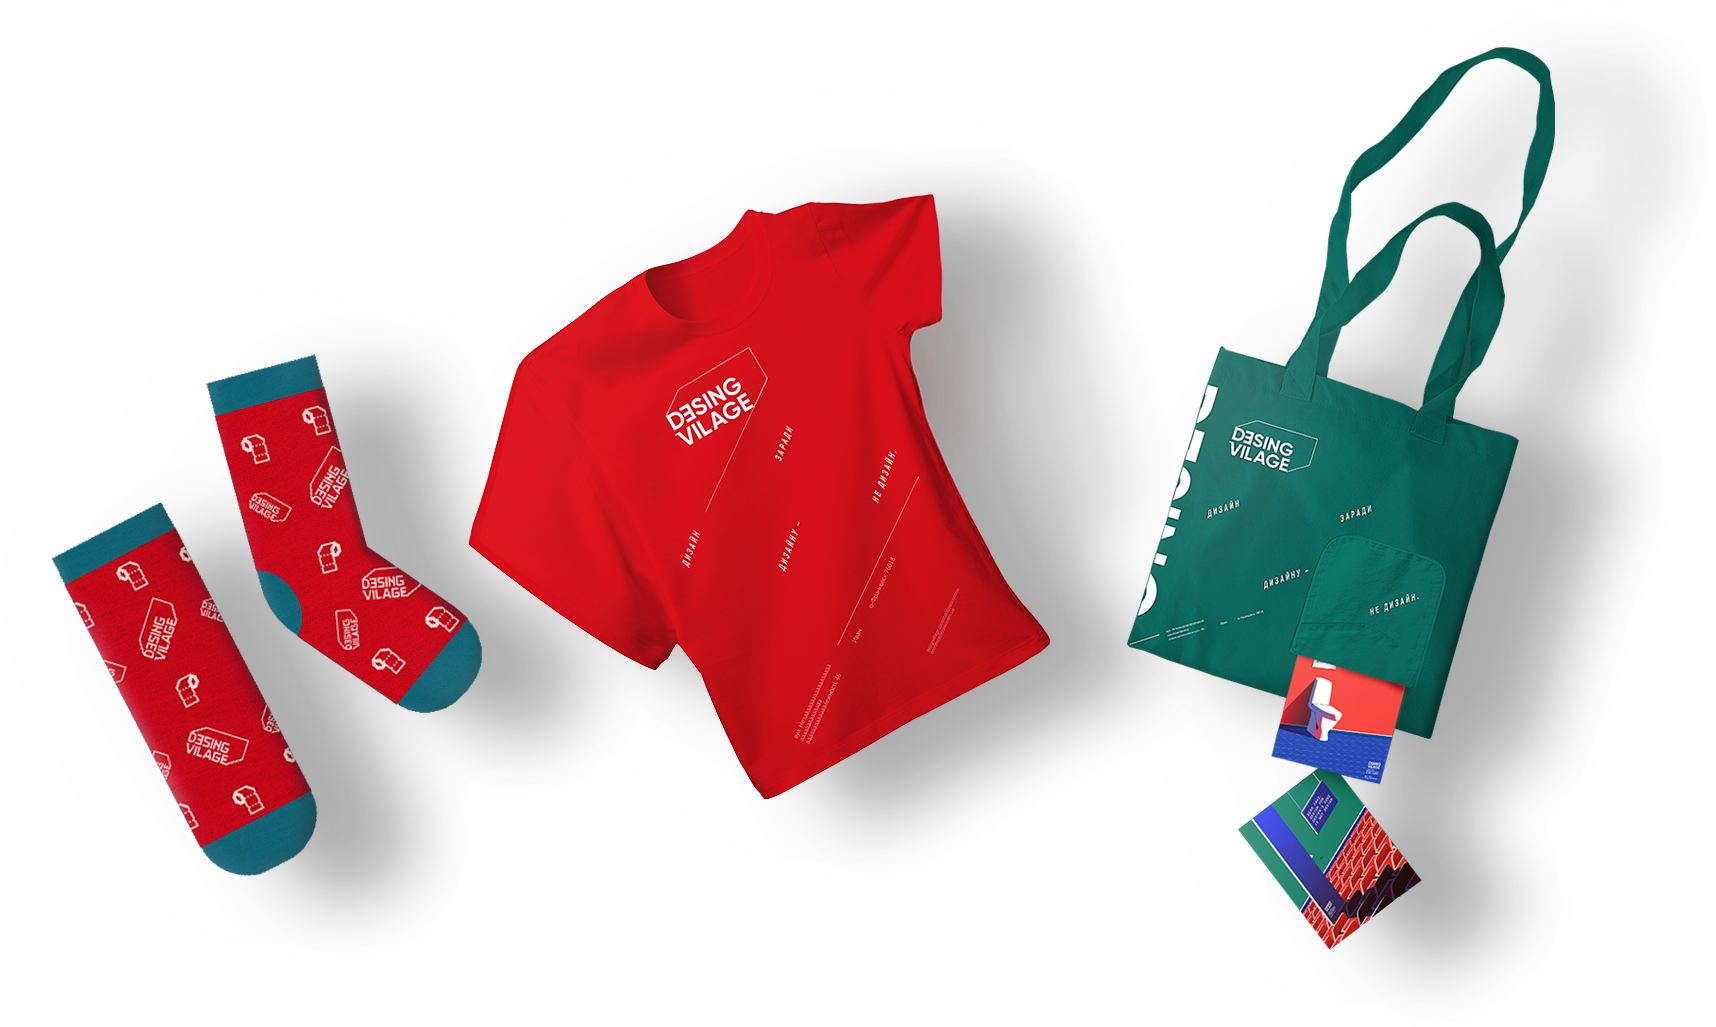
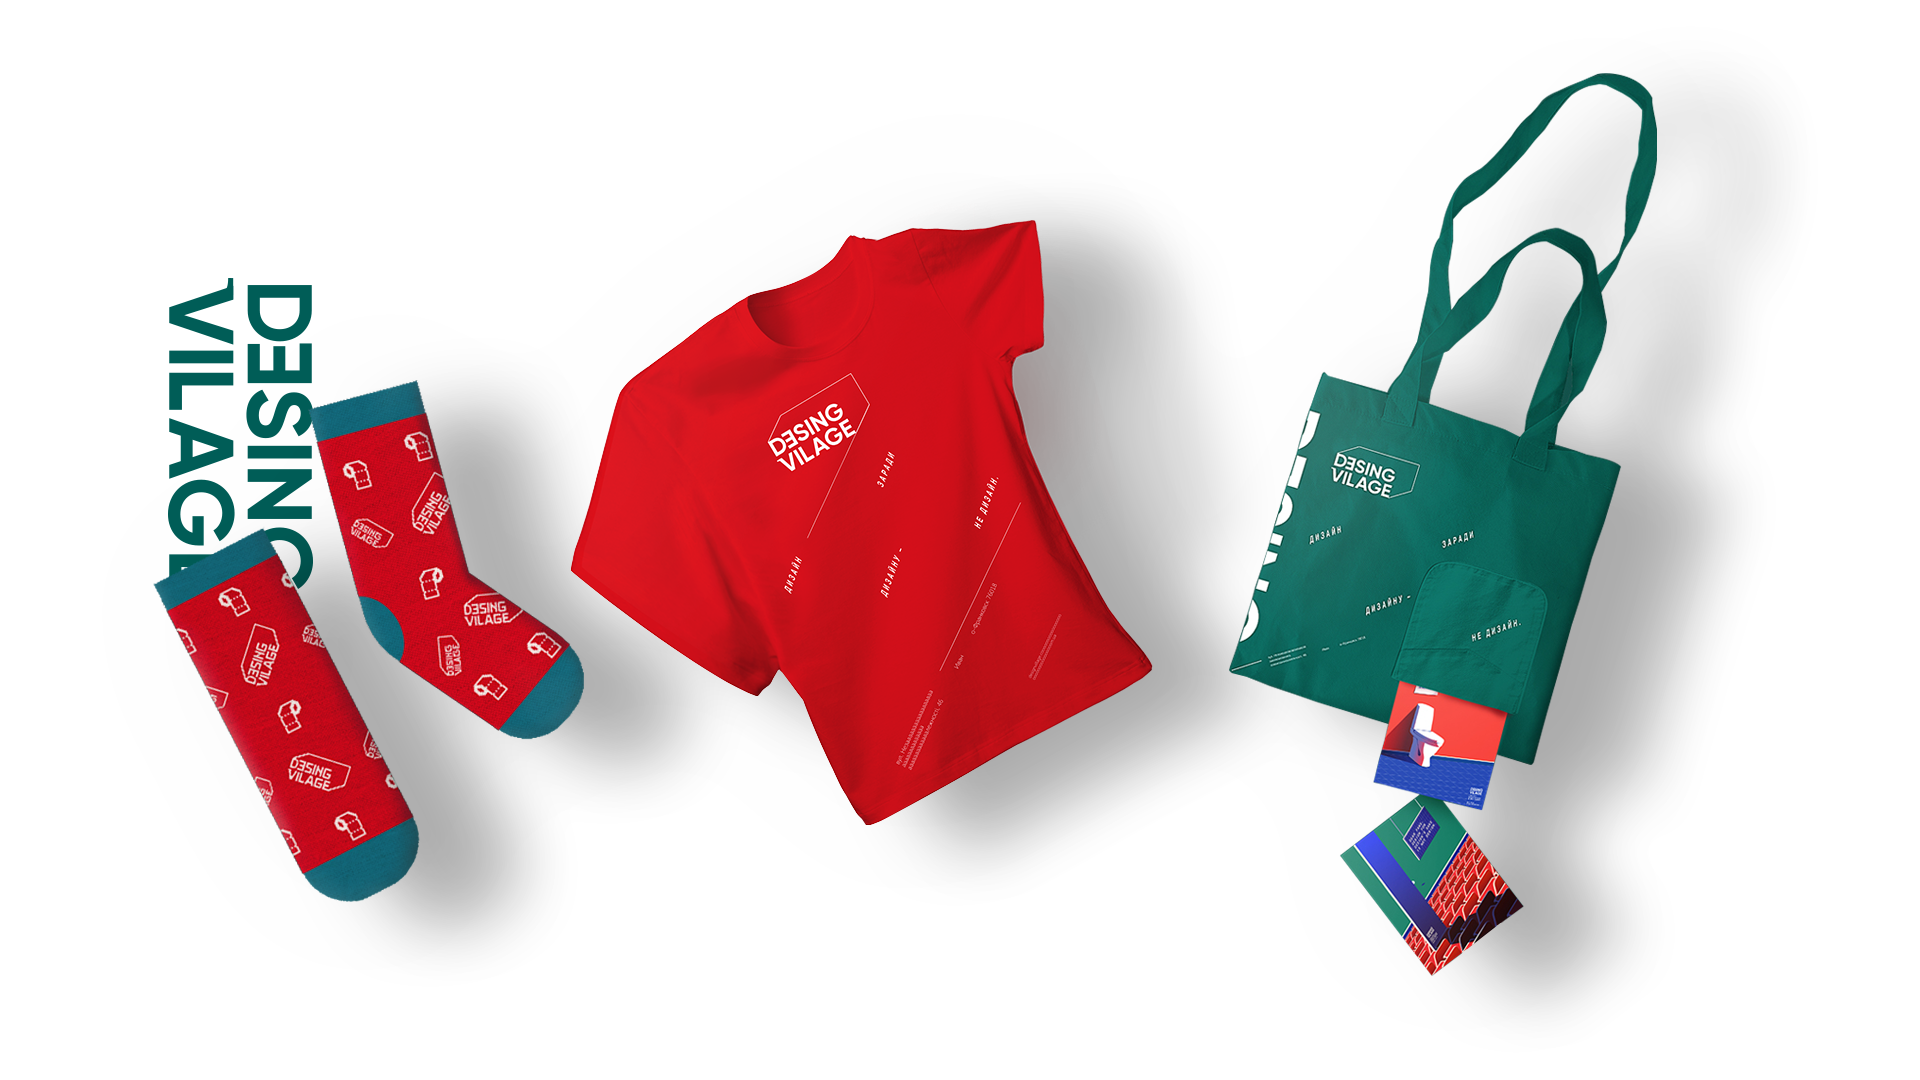
fix souvenier shop

diff --git a/stylesheets/all.css b/stylesheets/all.css
@@ -2061,10 +2061,25 @@ a:hover {
     padding: 0; }
 
 .products-section {
+  position: relative;
   text-align: center; }
   .products-section .section-heading .color {
     left: 0; }
+  .products-section .products-img {
+    position: relative; }
+  .products-section .products-bg {
+    position: absolute;
+    top: 50%;
+    -webkit-transform: translateY(-50%);
+            transform: translateY(-50%);
+    width: 100%;
+    height: 0;
+    background: #1f655d;
+    padding-top: 30%; }
   .products-section img {
+    position: relative;
+    width: 100%;
+    height: auto;
     margin-top: -100px;
     margin-bottom: -60px; }
   .products-section .buy-btn {
@@ -2253,7 +2268,10 @@ a:hover {
     padding: 20px 0; }
 
   .partners-heading {
-    padding: 65px 0; } }
+    padding: 65px 0; }
+
+  .products-section img {
+    margin-top: -90px; } }
 @media screen and (max-width: 1366px) {
   .line-two .grey-stripe {
     left: 500px; }
@@ -2338,7 +2356,10 @@ a:hover {
     padding: 60px 0 0; }
 
   .numbers h5 {
-    font-size: 14px; } }
+    font-size: 14px; }
+
+  .products-section img {
+    margin-top: -80px; } }
 @media screen and (max-width: 960px) {
   .one {
     top: 255px;
@@ -2424,7 +2445,7 @@ a:hover {
         float: inherit; }
 
   .products-section img {
-    margin-top: -50px;
+    margin-top: -40px;
     margin-bottom: -20px; }
 
   .contacts-info {
@@ -2474,7 +2495,7 @@ a:hover {
   .products-section .section-heading {
     padding: 30px 0 0; }
   .products-section img {
-    margin-top: 0;
+    margin-top: -10px;
     margin-bottom: 0; }
   .products-section .buy-btn {
     margin-bottom: 20px; } }
@@ -2863,9 +2884,6 @@ a:hover {
 
   .products-section .section-heading {
     padding: 30px 0 0; }
-  .products-section img {
-    margin-top: 0;
-    margin-bottom: 0; }
   .products-section .buy-btn {
     padding: 10px 20px; }
 

diff --git a/index.html b/index.html
@@ -716,7 +716,13 @@ EN
 </div>
 </div><div class='half-width inline-block'>
 <div class='event'>
-<h6 class='red'>Buero Bauer</h6>
+<h6 class='red'>
+Buero Bauer
+<span class='red tooltip'>
+EN
+<span class='tooltiptext'>лекція англійською</span>
+</span>
+</h6>
 <p>Форма слідує за ставленням</p>
 </div>
 </div></div>
@@ -1280,10 +1286,13 @@ Marco Coppeto
 <div class='section-heading'>
 <div class='heading-box'>
 <div class='color red-bg'></div>
-<h3 class='visible-heading'>Сувенірна лавка</h3>
+<h3>Сувенірна лавка</h3>
 </div>
 </div>
-<img alt='Products items' src='images/products-bg.png'>
+<div class='products-img'>
+<div class='products-bg'></div>
+<img alt='Products items' src='images/products-items.png'>
+</div>
 <a class='buy-btn' href='product.html'>Покажіть все!</a>
 </div>
 <div class='contacts-section' id='contacts'>

diff --git a/en/index.html b/en/index.html
@@ -721,7 +721,13 @@ EN
 </div>
 </div><div class='half-width inline-block'>
 <div class='event'>
-<h6 class='red'>BUERO BAUER</h6>
+<h6 class='red'>
+BUERO BAUER
+<span class='red tooltip'>
+EN
+<span class='tooltiptext'>lecture in english</span>
+</span>
+</h6>
 <p>Form Follows Attitude</p>
 </div>
 </div></div>
@@ -1280,10 +1286,13 @@ TBA
 <div class='section-heading'>
 <div class='heading-box'>
 <div class='color red-bg'></div>
-<h3 class='visible-heading'>Souvenier shop</h3>
+<h3>Souvenier shop</h3>
 </div>
 </div>
-<img alt='Products items' src='../images/products-bg.png'>
+<div class='products-img'>
+<div class='products-bg'></div>
+<img alt='Products items' src='../images/products-items.png'>
+</div>
 <a class='buy-btn' href='product.html'>Show me more!</a>
 </div>
 <div class='contacts-section' id='contacts'>
